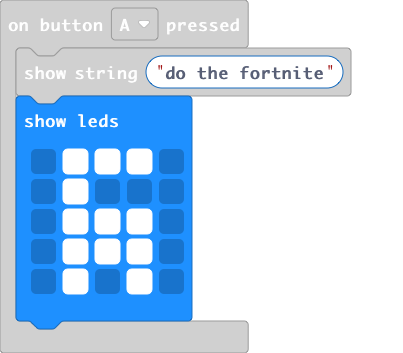
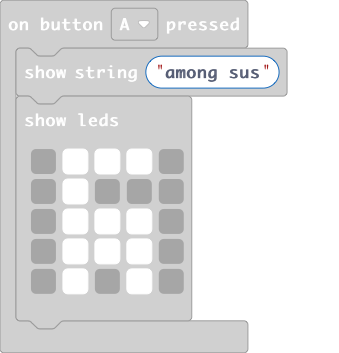
pou 2

diff --git a/main.ts b/main.ts
@@ -1,5 +1,5 @@
 input.onButtonPressed(Button.A, function () {
-    basic.showString("do the fortnite")
+    basic.showString("among sus")
     basic.showLeds(`
         . # # # .
         . # . . .
